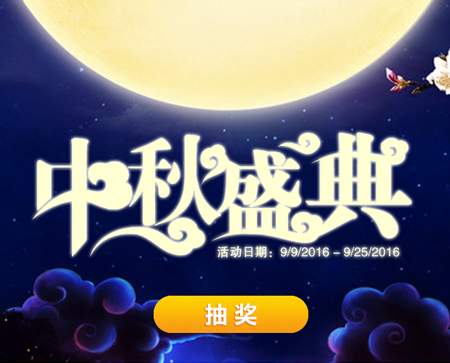
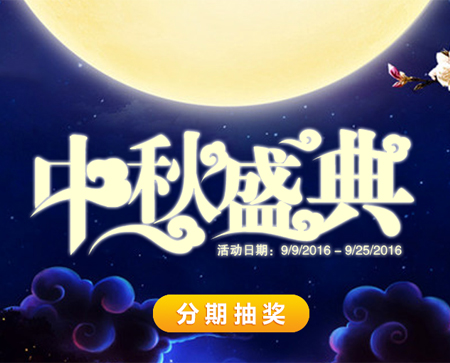
修改中秋节文案

diff --git a/webapp/activity/common/carnival.js b/webapp/activity/common/carnival.js
@@ -44,8 +44,8 @@ $(function(){
 		condi.designPhone = $("#designPhone").val() || "";
 		if(condi.userName == ""){alert("客户姓名不能为空","提示");return;}
 		if(!validPhone($("#userPhone"),'客户')){return;}
-		if(condi.designName == ""){alert("设计师姓名不能为空","提示");return;}
-		if(!validPhone($("#designPhone"),'设计师')){return;}
+		//if(condi.designName == ""){alert("设计师姓名不能为空","提示");return;}
+		//if(!validPhone($("#designPhone"),'设计师')){return;}
 		condi.operate = escape(g.operate) || "";
 		condi.channel = escape(g.channel) || "";
 		condi.activity = escape(g.activity) || "";
@@ -98,25 +98,25 @@ $(function(){
 					alert('没有次数了');
 					break;
 				case '18':
-					rotateFunc(1, 0, '恭喜您获得100元免息特权');
+					rotateFunc(1, 0, '恭喜您获得100元现金抵用券,凭手机号可直接减免分期服务费');
 					break;
 				case '6':
 					rotateFunc(2, 60, '恭喜您获得工具箱一个');
 					break;
 				case '21':
-					rotateFunc(3, 120, '恭喜您获得500元免息特权');
+					rotateFunc(3, 120, '恭喜您获得500元现金抵用券,凭手机号可直接减免分期服务费');
 					break;
 				case '7':
 					rotateFunc(4, 180, '恭喜您获得多功能按摩器一个');
 					break;
 				case '20':
-					rotateFunc(5, 240, '恭喜您获得300元免息特权');
+					rotateFunc(5, 240, '恭喜您获得300元现金抵用券,凭手机号可直接减免分期服务费');
 					break;
 				case '4':
 					rotateFunc(6, 300, '恭喜您获得小米48英寸彩电-台');
 					break;
 				case '19':
-					rotateFunc(7, 360, '恭喜您获得200元免息特权');
+					rotateFunc(7, 360, '恭喜您获得200元现金抵用券,凭手机号可直接减免分期服务费');
 					break;
 				case '5':
 					rotateFunc(8, 420, '恭喜您获得床上用品一套');
